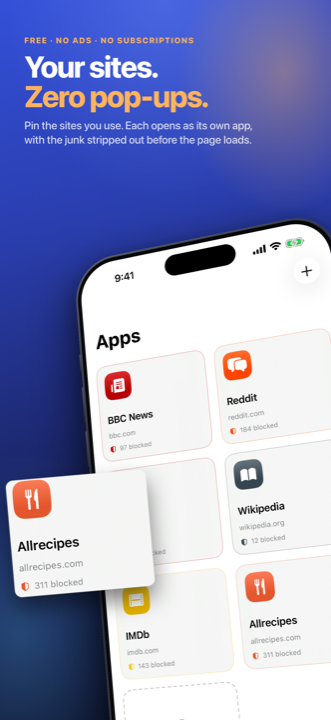
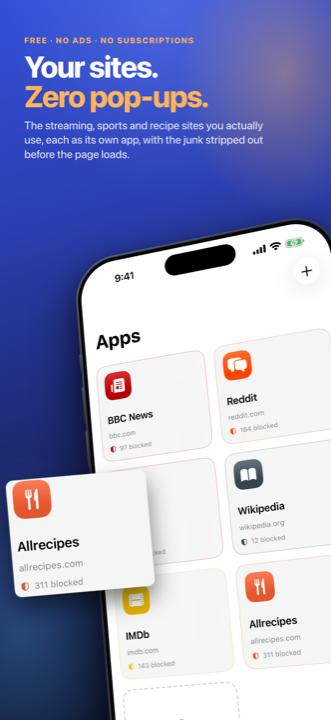
Site: 2026-09-09 10:33

Changed region(s): [[0.0604, 0.1528, 0.7855, 0.2444]]

diff --git a/docs/index.html b/docs/index.html
@@ -18,7 +18,7 @@
 <section class="hero"><div class="wrap">
   <div class="pill">Free · No ads · No subscriptions</div>
   <h1>Your sites. <span>Zero pop&#8209;ups.</span></h1>
-  <p class="lead">OneBrowse is a browser for the one or two sites you actually use. Pin a site, tap its button, and everything it throws at you — pop-ups, redirects, overlays, cookie walls — is stopped before you see it.</p>
+  <p class="lead">OneBrowse is a browser for the one or two sites you actually use: the streaming, sports and recipe sites that fight you on a phone. Pin a site, tap its button, and everything it throws at you — pop-ups, redirects, overlays, cookie walls — is stopped before you see it.</p>
   <a class="cta" href="https://apps.apple.com/app/id6808476200">Download on the App Store</a>
   <div class="gallery"><div class="gallery-inner"><img src="img/frame-01.png" alt="OneBrowse screenshot 1" loading="lazy"><img src="img/frame-02.png" alt="OneBrowse screenshot 2" loading="lazy"><img src="img/frame-03.png" alt="OneBrowse screenshot 3" loading="lazy"><img src="img/frame-04.png" alt="OneBrowse screenshot 4" loading="lazy"><img src="img/frame-05.png" alt="OneBrowse screenshot 5" loading="lazy"><img src="img/frame-06.png" alt="OneBrowse screenshot 6" loading="lazy"></div></div>
 </div></section>
@@ -30,7 +30,7 @@
     <div class="card"><h3>Three levels, per site</h3><p>Standard stops pop-ups and leaves the page alone. Strict also removes the boxes that cover a page. Nuclear strips bars, chat bubbles and anything pinned over the content.</p></div>
     <div class="card"><h3>See what it stopped</h3><p>What Was Blocked shows every site, every day, by kind: pop-ups, redirects, overlays, nags, cookie banners answered and tracking links cleaned.</p></div>
     <div class="card"><h3>Browse anything</h3><p>Free Browse gives you tabs, private tabs, reader view, downloads and a desktop-site switch, with the same blocking on every page. Make any page an app with one tap.</p></div>
-    <div class="card"><h3>On every device</h3><p>iPhone, iPad and Mac. Sign in with Apple if you want your pinned sites, favourites and settings to follow you over iCloud. No account is needed to use the app.</p></div>
+    <div class="card"><h3>On iPhone and iPad</h3><p>Sign in with Apple if you want your pinned sites, favourites and settings to follow you over iCloud. No account is needed to use the app. A Mac version is on its way.</p></div>
     <div class="card"><h3>Real AirPlay</h3><p>A site's video goes to your TV as a stream, not as screen mirroring, so the phone stays free and the picture stays full resolution.</p></div>
   </div>
 </div></section>

diff --git a/build_site.py b/build_site.py
@@ -155,7 +155,7 @@ def landing(app_store_url):
 <section class="hero"><div class="wrap">
   <div class="pill">Free · No ads · No subscriptions</div>
   <h1>Your sites. <span>Zero pop&#8209;ups.</span></h1>
-  <p class="lead">OneBrowse is a browser for the one or two sites you actually use. Pin a site, tap its button, and everything it throws at you — pop-ups, redirects, overlays, cookie walls — is stopped before you see it.</p>
+  <p class="lead">OneBrowse is a browser for the one or two sites you actually use: the streaming, sports and recipe sites that fight you on a phone. Pin a site, tap its button, and everything it throws at you — pop-ups, redirects, overlays, cookie walls — is stopped before you see it.</p>
   <a class="cta" href="{html.escape(app_store_url)}">Download on the App Store</a>
   <div class="gallery"><div class="gallery-inner">{frames}</div></div>
 </div></section>
@@ -167,7 +167,7 @@ def landing(app_store_url):
     <div class="card"><h3>Three levels, per site</h3><p>Standard stops pop-ups and leaves the page alone. Strict also removes the boxes that cover a page. Nuclear strips bars, chat bubbles and anything pinned over the content.</p></div>
     <div class="card"><h3>See what it stopped</h3><p>What Was Blocked shows every site, every day, by kind: pop-ups, redirects, overlays, nags, cookie banners answered and tracking links cleaned.</p></div>
     <div class="card"><h3>Browse anything</h3><p>Free Browse gives you tabs, private tabs, reader view, downloads and a desktop-site switch, with the same blocking on every page. Make any page an app with one tap.</p></div>
-    <div class="card"><h3>On every device</h3><p>iPhone, iPad and Mac. Sign in with Apple if you want your pinned sites, favourites and settings to follow you over iCloud. No account is needed to use the app.</p></div>
+    <div class="card"><h3>On iPhone and iPad</h3><p>Sign in with Apple if you want your pinned sites, favourites and settings to follow you over iCloud. No account is needed to use the app. A Mac version is on its way.</p></div>
     <div class="card"><h3>Real AirPlay</h3><p>A site's video goes to your TV as a stream, not as screen mirroring, so the phone stays free and the picture stays full resolution.</p></div>
   </div>
 </div></section>
